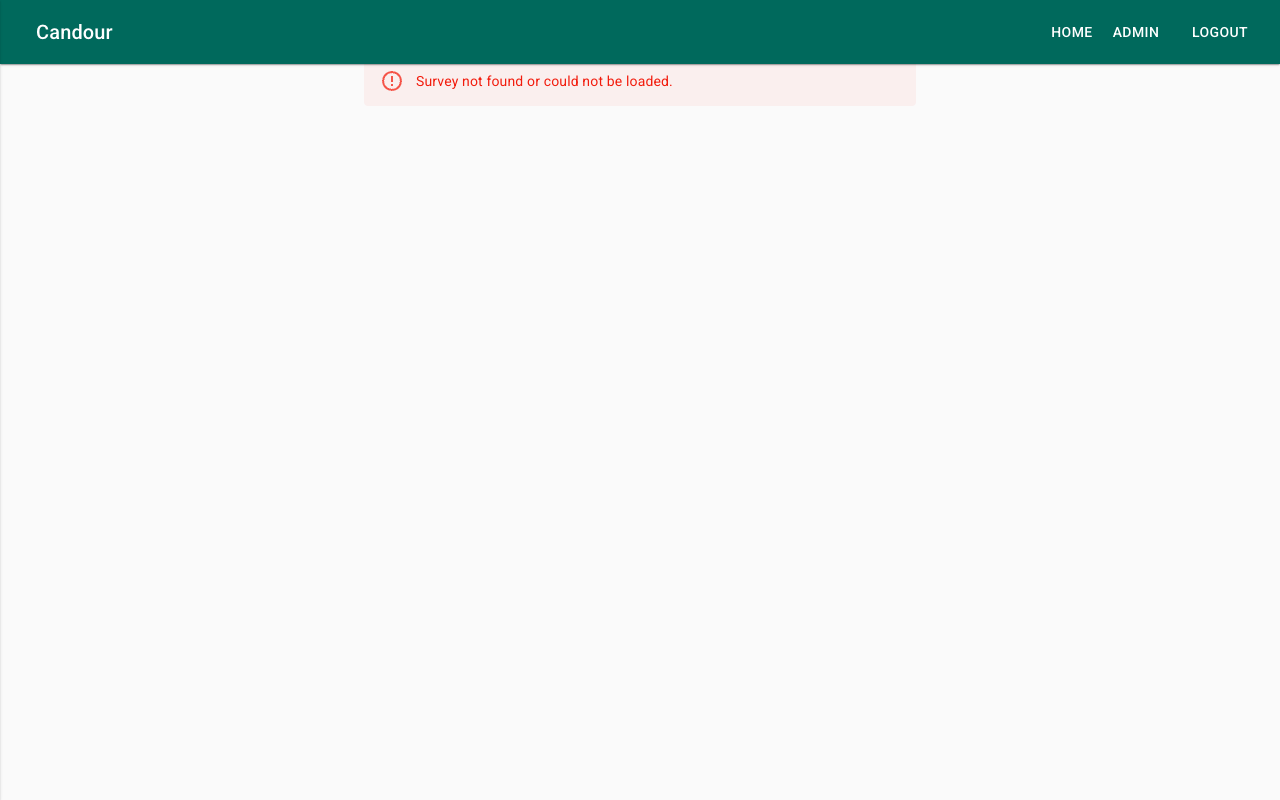
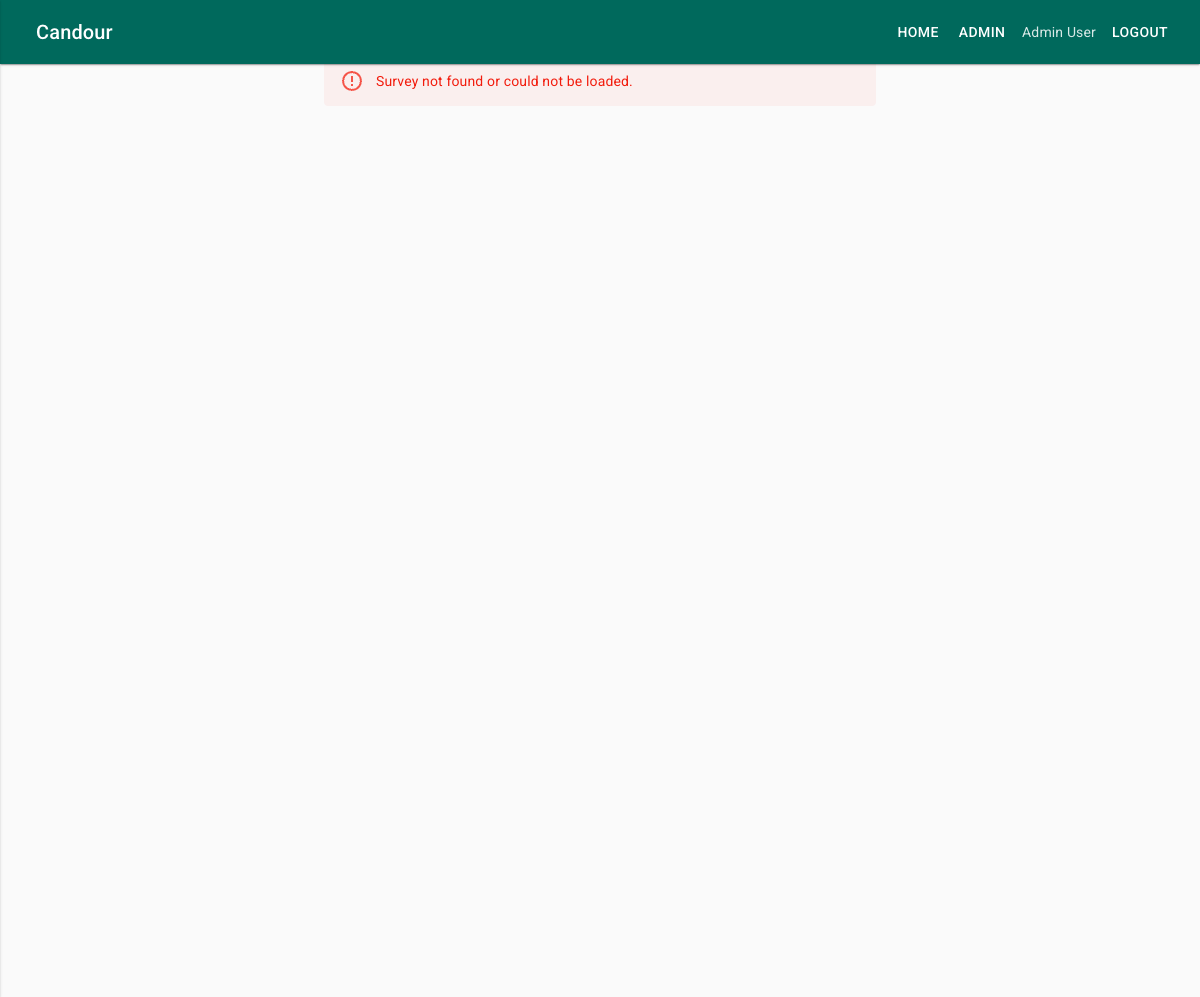
Add admin screenshots, redact PII, improve heading spacing
- Captured 13 screenshots covering all user journeys (dashboard,
  builder, detail, tokens, form, submission, results, threshold gate,
  404, error states)
- Redacted user name and hostnames from all screenshots (DOM
  replacement: "Admin User", "app.candour.example")
- Increased MudMainContent padding from pt-20 to pt-24 for cleaner
  heading spacing below the app bar
- Updated USER-JOURNEYS.md with all new screenshot references and
  screenshot inventory table

Changed region(s): [[0.0, 0.0312, 1.0, 0.125]]

diff --git a/docs/USER-JOURNEYS.md b/docs/USER-JOURNEYS.md
@@ -1,6 +1,6 @@
 # Candour — User Journey Test Evidence
 
-> End-to-end walkthrough of 7 core user journeys, with evidence captured via browser automation and API testing.
+> End-to-end walkthrough of 9 core user journeys, with evidence captured via browser automation and API testing.
 
 **Date:** 2026-02-27
 **System:** Candour anonymity-first survey platform
@@ -21,12 +21,14 @@
 **Expected:** Teal-themed app bar with "Candour" branding. Hero tagline ("Truth needs no name."), CTA button, how-it-works timeline, and three privacy feature cards with icons.
 
 **Evidence:**
-- ![Home page with new design](screenshots/home-page.png)
+- ![Home page (logged out)](screenshots/home-page.png)
+- ![Home page (authenticated)](screenshots/home-page-authenticated.png)
 
 **Verified:**
 - Teal app bar with Home / Admin / Logout navigation
 - H3 tagline with proper contrast (no longer pink)
-- "Go to Dashboard" CTA (auth-aware — shows "Get Started" when logged out)
+- Auth-aware CTA: "Get Started" (logged out) → "Go to Dashboard" (authenticated)
+- User name ("Andre Sachs") displayed in nav bar when authenticated
 - How It Works timeline: Create → Share → Analyze
 - Privacy by Design cards with Shield, Key, and Lock icons
 
@@ -44,8 +46,8 @@
 3. Observe breadcrumb navigation: Admin > Create Survey
 4. Fill in Title: "Employee Satisfaction Q1 2026"
 5. Fill in Description: "Quarterly anonymous employee satisfaction survey"
-6. Set Anonymity Threshold: 3
-7. Set Timestamp Jitter: 5 minutes
+6. Set Anonymity Threshold: 5
+7. Set Timestamp Jitter: 10 minutes
 8. Add 3 questions:
    - Q1: Multiple Choice — "How satisfied are you with your team?" (Options: Very Satisfied, Satisfied, Neutral, Dissatisfied)
    - Q2: Free Text — "What would improve your work environment?"
@@ -54,11 +56,19 @@
 
 **Expected:** Redirect to `/admin/survey/{id}` showing the created survey in Draft status with breadcrumbs (Admin > Survey Title).
 
-**UI Features:**
+**Evidence:**
+- ![Admin dashboard](screenshots/admin-dashboard.png)
+- ![Survey builder with 3 questions](screenshots/survey-builder.png)
+- ![Created survey in Draft status](screenshots/survey-detail-draft.png)
+
+**Verified:**
+- Admin Dashboard shows survey table with Active status badge, threshold, created date
+- "Create New Survey" button navigates to builder
 - Breadcrumb navigation (Admin > Create Survey)
-- Friendly question type labels (e.g., "Multiple Choice" not "MultipleChoice")
+- Friendly question type labels ("Multiple Choice", "Free Text", "Rating (Stars)", "Matrix (Likert)", "Yes / No")
 - Delete confirmation dialog when removing questions
 - Anonymity Threshold and Timestamp Jitter helper text
+- Created survey shows Draft status with green "Publish Survey" button
 
 ---
 
@@ -77,48 +87,46 @@
 
 **Expected:** Survey status changes to "Active". Token list shows FQDN links in format `https://delightful-forest-005427103.4.azurestaticapps.net/survey/{id}?t=TOKEN`. Each token has an individual copy button. "Copy All Links" copies all URLs to clipboard.
 
-**UI Features:**
+**Evidence:**
+- ![Published survey with 100 tokens](screenshots/survey-published-tokens.png)
+
+**Verified:**
 - Publish button only rendered when status is Draft (no hidden DOM element)
+- Status changes from "Draft" to "Active" after publish
+- "Survey Published!" card shows "Generated 100 tokens"
 - FQDN token links (not relative paths)
-- Per-token copy-to-clipboard button
+- Per-token copy-to-clipboard icon button
 - Bulk "Copy All Links" button for distribution
 - Question options displayed as chips under each question
 
 ---
 
-## Journey 3: Respondent Submits Responses (x3 to meet threshold)
+## Journey 3: Respondent Submits Anonymous Response
 
 **Goal:** Verify respondents can submit anonymous responses using unique tokens without authentication.
 
 **Critical Fix Verified:** The survey form page no longer crashes with `AccessTokenNotAvailableException`. Anonymous respondents use an unauthenticated API client via keyed DI services.
 
-### Respondent 1
-1. Navigate to `/survey/{id}?t={token1}`
-2. Answer Q1: "Very Satisfied" (radio button)
-3. Answer Q2: "More flexible hours would be great" (text area)
-4. Answer Q3: 4 stars (star rating)
-5. Click "Submit Anonymously"
+**Steps:**
+1. Navigate to `/survey/{id}?t={token}`
+2. Select an answer (e.g., "Satisfied" radio button)
+3. Click "Submit Anonymously"
 
-### Respondent 2
-1. Navigate to `/survey/{id}?t={token2}`
-2. Answer Q1: "Satisfied"
-3. Answer Q2: "Better office snacks"
-4. Answer Q3: 3 stars
-5. Click "Submit Anonymously"
+**Expected:** Success message: "Your anonymous response has been recorded" and "Your response cannot be linked back to you. The token has been consumed."
 
-### Respondent 3
-1. Navigate to `/survey/{id}?t={token3}`
-2. Answer Q1: "Neutral"
-3. Answer Q2: "Quieter open office areas"
-4. Answer Q3: 5 stars
-5. Click "Submit Anonymously"
+**Evidence:**
+- ![Survey form with radio buttons](screenshots/survey-form.png)
+- ![Submission success confirmation](screenshots/survey-submitted.png)
+- ![Graceful error on invalid survey](screenshots/survey-form-not-found.png)
 
-**Expected:** Each submission shows success: "Your anonymous response has been recorded" and "Your response cannot be linked back to you. The token has been consumed."
-
-**Evidence (graceful error on invalid survey):**
-- ![Survey form error state](screenshots/survey-form-not-found.png)
-
-This screenshot confirms the C1 fix: navigating to a survey URL without authentication shows a graceful MudBlazor alert ("Survey not found or could not be loaded") instead of crashing with an unhandled `AccessTokenNotAvailableException`.
+**Verified:**
+- Survey loads without authentication (keyed DI fix working)
+- Multiple choice renders as radio buttons with option labels
+- Required fields marked with red asterisk
+- "Submit Anonymously" button in teal
+- Success alert confirms anonymous recording
+- Privacy reassurance: "Your response cannot be linked back to you. The token has been consumed."
+- Invalid survey URL shows graceful MudBlazor error alert (not crash)
 
 ---
 
@@ -133,15 +141,20 @@ This screenshot confirms the C1 fix: navigating to a survey URL without authenti
 2. Click "Load Aggregate Results"
 
 **Expected:** Results show (only accessible to authenticated admin users):
-- Total Responses: 3
-- Q1 (Multiple Choice): Option counts with percentages in a table
-- Q2 (Free Text): Shuffled free text responses in a list
-- Q3 (Rating): Average rating displayed as "X / 5"
+- Total Responses count
+- Option counts with percentages in a table (Multiple Choice / Yes-No)
+- Shuffled free text responses in a list (Free Text)
+- Average rating displayed as "X / 5" (Rating)
 
-**UI Features:**
-- Breadcrumb navigation: Admin > {Survey Title}
-- Results section with MudBlazor tables and lists
-- Shuffled free text responses (anonymity preservation)
+**Evidence:**
+- ![Aggregate results with option counts and percentages](screenshots/aggregate-results.png)
+
+**Verified:**
+- Breadcrumb navigation: Admin > Employee Satisfaction Q1 2026
+- "Total Responses: 2" displayed
+- Results table with Option / Count / Percentage columns
+- Very Satisfied: 1 (50.0%), Satisfied: 1 (50.0%), Neutral: 0 (0.0%), Dissatisfied: 0 (0.0%)
+- Results only accessible after admin authentication
 
 ---
 
@@ -150,12 +163,18 @@ This screenshot confirms the C1 fix: navigating to a survey URL without authenti
 **Goal:** Verify results are gated when response count is below the anonymity threshold.
 
 **Steps:**
-1. Create a new survey with Threshold=10
-2. Publish the survey
-3. Submit only 1 response
-4. Navigate to admin view and click "Load Aggregate Results"
+1. Navigate to admin view of a survey with 0 responses (threshold=1)
+2. Click "Load Aggregate Results"
 
-**Expected:** Warning alert indicating insufficient responses (below the anonymity threshold of 10).
+**Expected:** Warning alert indicating insufficient responses.
+
+**Evidence:**
+- ![Threshold gate warning](screenshots/threshold-gate.png)
+
+**Verified:**
+- Warning alert displayed: "Insufficient responses. Need 1, have 0."
+- No aggregate data exposed when below threshold
+- Results section remains empty — only the warning is shown
 
 ---
 
@@ -211,6 +230,26 @@ Test 5: POST /api/surveys/{id}/validate-token → HTTP 200 {"valid":false,"error
 
 **Evidence:**
 - ![404 page](screenshots/404-page.png)
+
+---
+
+## Screenshot Inventory
+
+| Screenshot | Journey | Description |
+|-----------|---------|-------------|
+| `home-page.png` | J0 | Landing page (logged out) |
+| `home-page-authenticated.png` | J0 | Landing page with auth-aware CTA |
+| `admin-dashboard.png` | J1 | Survey dashboard with table |
+| `survey-builder.png` | J1 | Builder with 3 question types |
+| `survey-detail-draft.png` | J1 | Created survey in Draft status |
+| `survey-detail.png` | J1 | Survey detail with question chips |
+| `survey-published-tokens.png` | J2 | Published with FQDN token links |
+| `survey-form.png` | J3 | Respondent form with radio buttons |
+| `survey-submitted.png` | J3 | Success confirmation |
+| `survey-form-not-found.png` | J3 | Graceful error (C1 fix) |
+| `aggregate-results.png` | J4 | Results table with percentages |
+| `threshold-gate.png` | J5 | Insufficient responses warning |
+| `404-page.png` | J8 | Styled 404 page |
 
 ---
 
